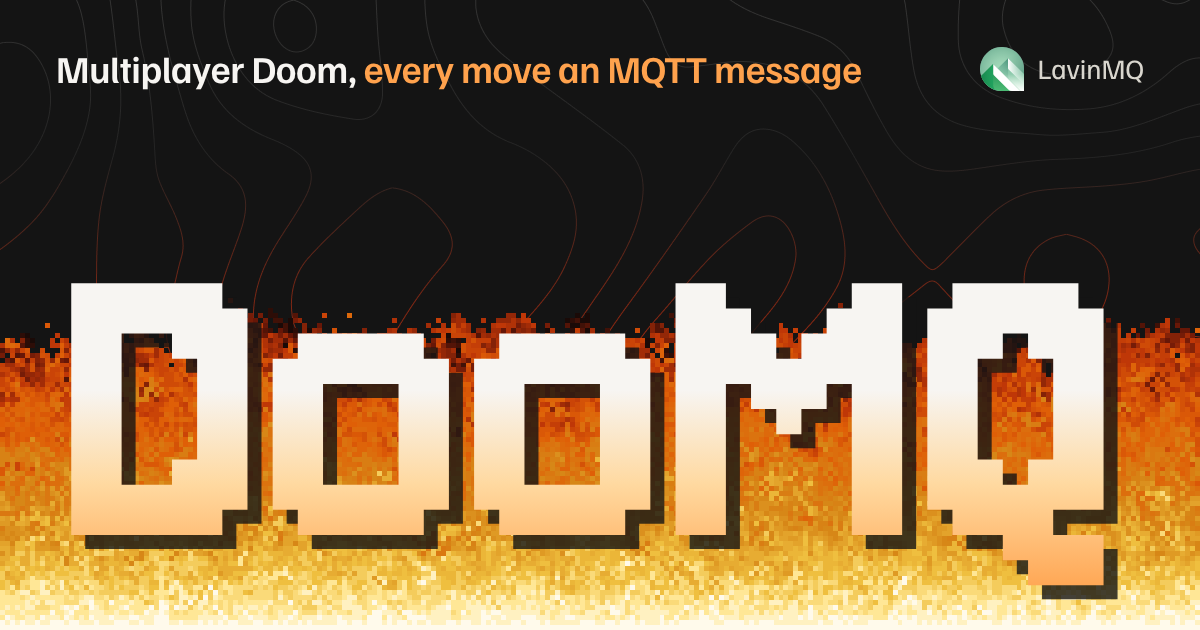
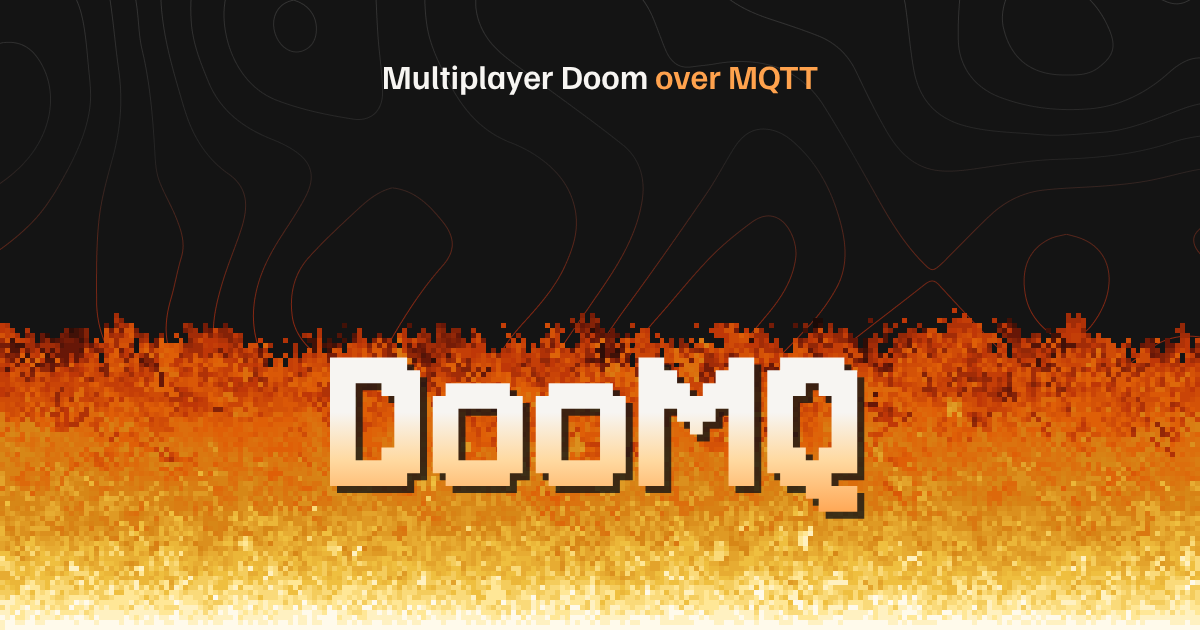
Fit the link preview's wordmark in the square Slack shows
Slack shows the picture as a small square beside the text, cut from the
middle of it: "oom, every move a" over "OOM". The wordmark and its line
of text now stay within that square, with fire to both sides for those
who show the whole picture.

diff --git a/web/img/preview.html b/web/img/preview.html
@@ -7,23 +7,21 @@
   @font-face { font-family: "Jersey 10"; src: url("../fonts/jersey-10.woff2") format("woff2"); }
   @font-face { font-family: "Familjen Grotesk"; src: url("../fonts/familjen-grotesk.woff2") format("woff2"); font-weight: 400 700; }
   html, body { margin: 0; background: #141414; }
-  .card { position: relative; isolation: isolate; overflow: hidden; width: 1200px; height: 630px; background: #141414; color: #f7f5f2; font: 30px/1.3 "Familjen Grotesk", sans-serif; }
+  .card { position: relative; isolation: isolate; overflow: hidden; width: 1200px; height: 630px; background: #141414; color: #f7f5f2; font: 600 34px/1.2 "Familjen Grotesk", sans-serif; }
   .topo { position: absolute; inset: 0; z-index: -2; background: linear-gradient(rgb(247 245 242 / 0.14), rgb(247 245 242 / 0.07) 25%, #b3290b 62%, #ff8a2a); mask: url("topo.png") center top / 1440px auto repeat; }
   .fire { position: absolute; inset: auto 0 0; z-index: -1; width: 100%; height: 118%; image-rendering: pixelated; }
-  h1 { position: absolute; inset: auto 0 0.07em; margin: 0; text-align: center; font: 470px/0.8 "Jersey 10", monospace; background: linear-gradient(to bottom, #f7f5f2 45%, #ffd9a0 70%, #ffa24d); background-clip: text; -webkit-background-clip: text; color: transparent; filter: drop-shadow(0.03em 0.03em 0 rgb(20 20 20 / 0.8)); }
-  .top { position: absolute; inset: 44px 56px auto; display: flex; justify-content: space-between; align-items: center; }
-  .lead { margin: 0; font-weight: 600; font-size: 38px; letter-spacing: -0.01em; }
-  .lead span { color: #ffa24d; }
-  .by { display: flex; align-items: center; gap: 14px; color: #d9d6ce; font-size: 28px; }
-  .by img { width: 44px; height: 44px; }
+  /* Slack shows the square in the middle, others the whole: all that says something is in the square */
+  .middle { position: absolute; inset: 0 285px; display: flex; flex-direction: column; align-items: center; justify-content: space-between; padding: 56px 0 112px; }
+  p { margin: 0; white-space: nowrap; }
+  p span { color: #ffa24d; }
+  h1 { margin: 0; font: 240px/0.8 "Jersey 10", monospace; background: linear-gradient(to bottom, #f7f5f2 45%, #ffd9a0 70%, #ffa24d); background-clip: text; -webkit-background-clip: text; color: transparent; filter: drop-shadow(0.03em 0.03em 0 rgb(20 20 20 / 0.8)); }
 </style>
 <div class="card">
   <div class="topo"></div>
-  <div class="top">
-    <p class="lead">Multiplayer Doom, <span>every move an MQTT message</span></p>
-    <div class="by"><img src="lavinmq.svg" alt="" />LavinMQ</div>
+  <div class="middle">
+    <p>Multiplayer Doom <span>over MQTT</span></p>
+    <h1>DooMQ</h1>
   </div>
-  <h1>DooMQ</h1>
   <canvas class="fire"></canvas>
 </div>
 <script type="module">
